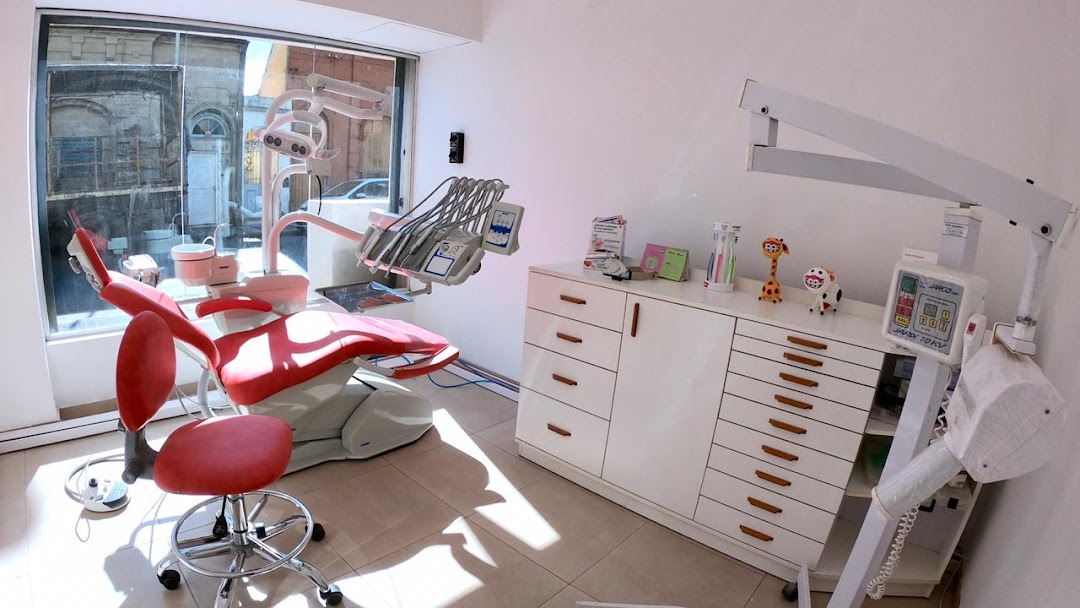
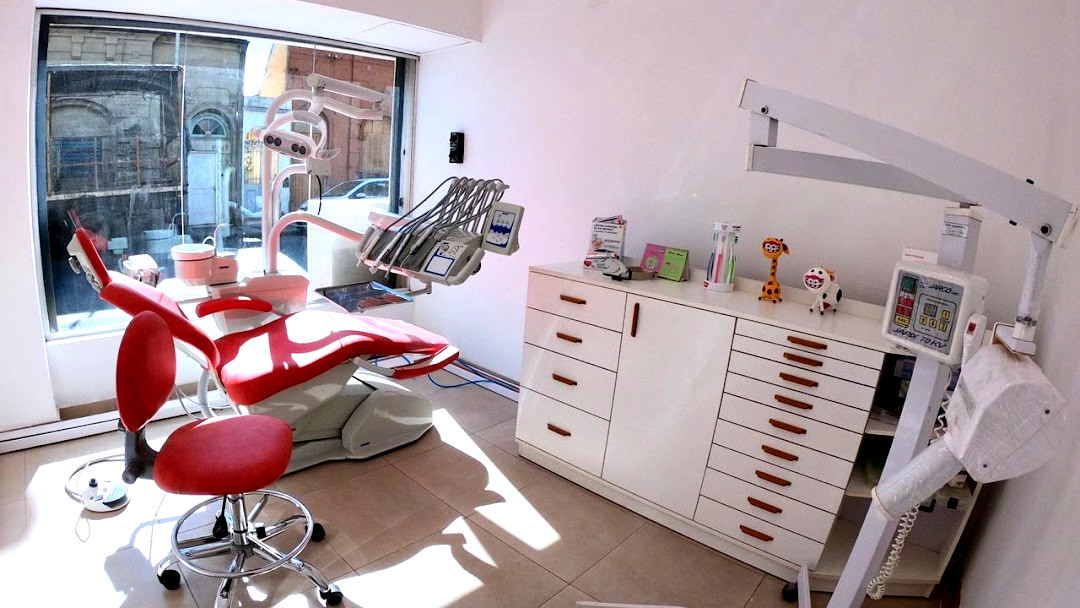
limpiando imagenes que no uso y cambiando nombres o sea acomodando codigo mas que nada

diff --git a/pages/services.html b/pages/services.html
@@ -152,31 +152,31 @@
             <div id="carouselExampleInterval" class="carousel slide" data-bs-ride="carousel">
                 <div class="carousel-inner">
                   <div class="carousel-item active" data-bs-interval="5000">
-                    <img src="../img/services_free_img/limpieDental2.jpg" class="d-block" alt="Imagen Limpieza dental">
+                    <img src="../img/services_free_img/limpieDental.jpg" class="d-block" alt="Imagen Limpieza dental">
                   </div>
                   <div class="carousel-item" data-bs-interval="5000">
                     <img src="../img/services_free_img/tratcaries.jpg" class="d-block" alt="Imagen Tratamiento de caries">
                   </div>
                   <div class="carousel-item" data-bs-interval="5000">
-                    <img src="../img/services_free_img/endodoncia3.jpg" class="d-block" alt="Imagen Endodoncia">
+                    <img src="../img/services_free_img/endodoncia.jpg" class="d-block" alt="Imagen Endodoncia">
                   </div>
                   <div class="carousel-item" data-bs-interval="5000">
-                    <img src="../img/services_free_img/ortodoncia3.jpg" class="d-block" alt="Imagen Ortodoncia">
+                    <img src="../img/services_free_img/ortodoncia.jpg" class="d-block" alt="Imagen Ortodoncia">
                   </div>
                   <div class="carousel-item" data-bs-interval="5000">
-                    <img src="../img/services_free_img/implante2.jpg" class="d-block" alt="Imagen Implantes">
+                    <img src="../img/services_free_img/implante.jpg" class="d-block" alt="Imagen Implantes">
                   </div>
                   <div class="carousel-item" data-bs-interval="5000">
                     <img src="../img/services_free_img/blanqueamiento.jpg" class="d-block" alt="Imagen Blanqueamiento dental">
                   </div>
                   <div class="carousel-item" data-bs-interval="5000">
-                    <img src="../img/services_free_img/tratamientoEncias2.jpg" class="d-block" alt="Imagen Tratamiento de encías">
+                    <img src="../img/services_free_img/tratamientoEncias.jpg" class="d-block" alt="Imagen Tratamiento de encías">
                   </div>
                   <div class="carousel-item" data-bs-interval="5000">
-                    <img src="../img/services_free_img/cirugiaDental2.jpg" class="d-block" alt="Imagen Cirugía dental">
+                    <img src="../img/services_free_img/cirugiaDental.jpg" class="d-block" alt="Imagen Cirugía dental">
                   </div>
                   <div class="carousel-item" data-bs-interval="5000">
-                    <img src="../img/services_free_img/ortopediatria2.jpg" class="d-block" alt="Imagen Ortopediatría">
+                    <img src="../img/services_free_img/ortopediatria.jpg" class="d-block" alt="Imagen Ortopediatría">
                   </div>
                 </div>
                 <button class="carousel-control-prev" type="button" data-bs-target="#carouselExampleInterval" data-bs-slide="prev">
@@ -200,7 +200,7 @@
           <div class="brand">frangimz</div>
           <div class="redes">
               <a href="https://www.instagram.com/myv_dental/">
-                  <img class="logoInsta" src="../img/logoInsta2.png" alt="Logo Instagram">
+                  <img class="logoInsta" src="../img/logoInsta.png" alt="Logo Instagram">
               </a>
           </div>
           <div class="copyright">

diff --git a/pages/contact.html b/pages/contact.html
@@ -107,7 +107,7 @@
             <div class="brand">frangimz</div>
             <div class="redes">
                 <a href="https://www.instagram.com/myv_dental/">
-                    <img class="logoInsta" src="../img/logoInsta2.png" alt="Logo Instagram">
+                    <img class="logoInsta" src="../img/logoInsta.png" alt="Logo Instagram">
                 </a>
             </div>
             <div class="copyright">

diff --git a/pages/aboutUs.html b/pages/aboutUs.html
@@ -82,7 +82,7 @@
             <div class="brand">frangimz</div>
             <div class="redes">
                 <a href="https://www.instagram.com/myv_dental/">
-                    <img class="logoInsta" src="../img/logoInsta2.png" alt="Logo Instagram">
+                    <img class="logoInsta" src="../img/logoInsta.png" alt="Logo Instagram">
                 </a>
             </div>
             <div class="copyright">

diff --git a/index.html b/index.html
@@ -83,7 +83,7 @@
             <div class="brand">frangimz</div>
             <div class="redes">
                 <a href="https://www.instagram.com/myv_dental/">
-                    <img class="logoInsta" src="img/logoInsta2.png" alt="Logo Instagram">
+                    <img class="logoInsta" src="img/logoInsta.png" alt="Logo Instagram">
                 </a>
             </div>
             <div class="copyright">

diff --git a/css/styles.css b/css/styles.css
@@ -21,7 +21,7 @@
     width: 100%;
     position: relative;
     background: linear-gradient(to right, transparent, white),
-    url("../img/fondo2.jpg");
+    url("../img/fondo.jpg");
     background-size: cover;
     min-height: 95vh;
 }
